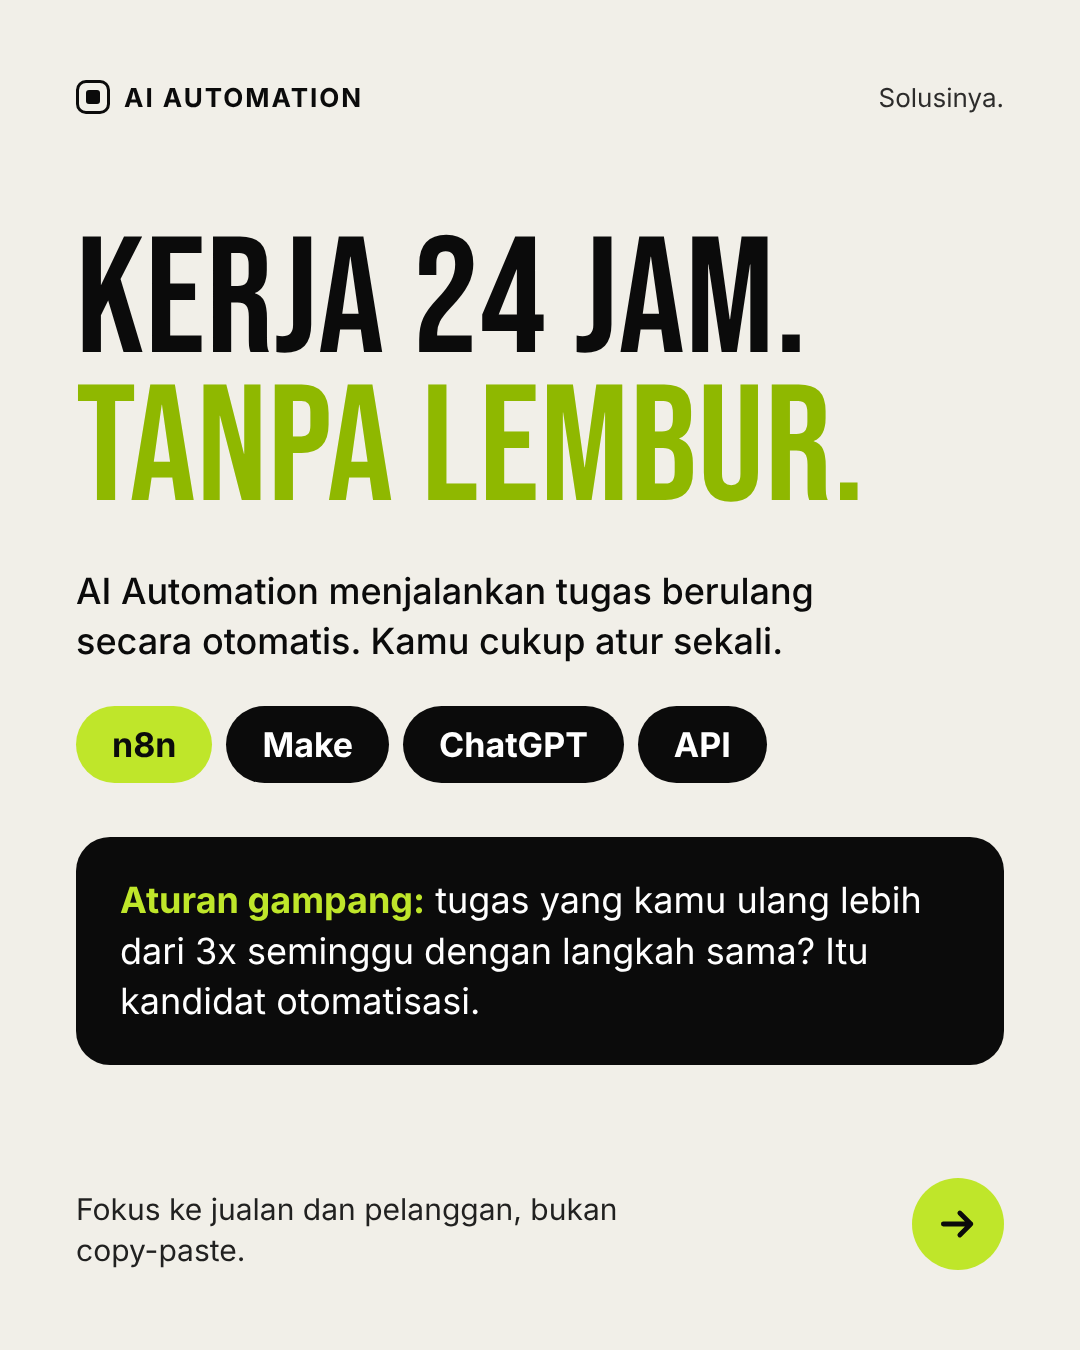
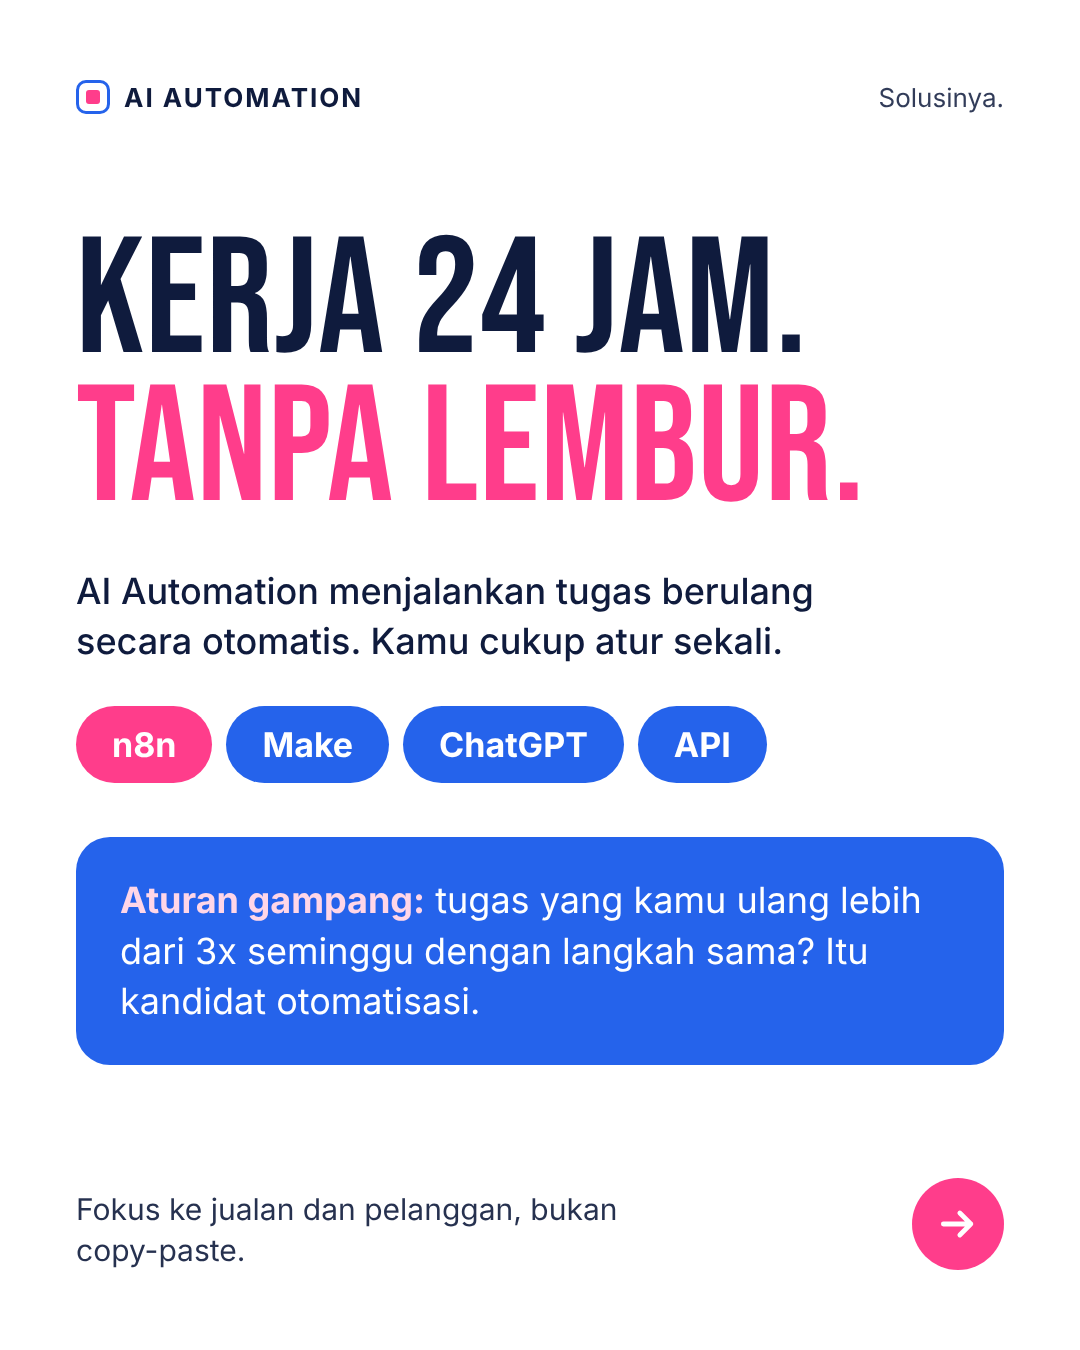
Ganti warna carousel jadi pink dan biru dengan latar putih
Claude-Session: https://claude.ai/code/session_01AFKDf2D6MYvccc19tTSVZF

diff --git a/carousel/carousel.html b/carousel/carousel.html
@@ -1,15 +1,15 @@
 <!doctype html><html lang="id"><head><meta charset="utf-8">
 <link href="https://fonts.googleapis.com/css2?family=Bebas+Neue&family=Inter:wght@400;500;700&display=swap" rel="stylesheet">
 <style>
-:root{--lime:#bfe62a;--limeD:#8fb800;--ink:#0b0b0b;--cream:#f1efe8}
+:root{--lime:#ff3d8b;--limeD:#ff3d8b;--ink:#0f1b3d;--blue:#2563eb;--soft:#eaf0ff}
 *{box-sizing:border-box;margin:0}
 body{background:#444;font-family:Inter,system-ui,sans-serif}
-.s{width:1080px;height:1350px;position:relative;overflow:hidden;padding:80px 76px;display:flex;flex-direction:column;background:var(--ink);color:#fff}
-.s.c{background:var(--cream);color:var(--ink)}
+.s{width:1080px;height:1350px;position:relative;overflow:hidden;padding:80px 76px;display:flex;flex-direction:column;background:#fff;color:var(--ink)}
+.s.c{background:#fff;color:var(--ink)}
 .logo{display:flex;align-items:center;gap:14px;font-weight:700;font-size:26px;letter-spacing:2px;z-index:3}
-.logo i{width:34px;height:34px;border-radius:10px;border:3px solid var(--lime);display:block;position:relative}
+.logo i{width:34px;height:34px;border-radius:10px;border:3px solid var(--blue);display:block;position:relative}
 .logo i:after{content:"";position:absolute;inset:7px;background:var(--lime);border-radius:3px}
-.c .logo i{border-color:var(--ink)}.c .logo i:after{background:var(--ink)}
+
 .top{display:flex;justify-content:space-between;align-items:flex-start;z-index:3}
 .top small{font-size:26px;text-align:right;line-height:1.35;opacity:.85}
 h1{font-family:"Bebas Neue",Impact,sans-serif;font-weight:400;text-transform:uppercase;font-size:210px;line-height:.9;letter-spacing:1px;z-index:3;position:relative}
@@ -22,33 +22,33 @@ h1 em{font-style:normal;color:var(--lime)}.c h1 em{color:var(--limeD)}
 .go svg{width:44px;height:44px}
 .pg{position:absolute;top:84px;right:76px;font-size:26px;opacity:.6;z-index:3}
 /* s1 */
-.clock{position:absolute;right:70px;top:190px;width:430px;height:430px;border-radius:50%;border:38px solid var(--lime);z-index:1}
-.clock:before,.clock:after{content:"";position:absolute;left:50%;top:50%;background:#fff;border-radius:10px;transform-origin:50% 100%}
+.clock{position:absolute;right:70px;top:190px;width:430px;height:430px;border-radius:50%;border:38px solid var(--blue);z-index:1}
+.clock:before,.clock:after{content:"";position:absolute;left:50%;top:50%;background:var(--lime);border-radius:10px;transform-origin:50% 100%}
 .clock:before{width:16px;height:150px;margin-left:-8px;margin-top:-150px;transform:rotate(25deg)}
 .clock:after{width:16px;height:110px;margin-left:-8px;margin-top:-110px;transform:rotate(-70deg)}
 .big60{font-family:"Bebas Neue";font-size:520px;line-height:.8;color:var(--lime)}
 /* s2 chats */
 .bub{position:absolute;font-size:38px;font-weight:700;padding:26px 38px;border-radius:34px;z-index:2;box-shadow:0 16px 40px rgba(0,0,0,.25)}
-.bd{background:var(--ink);color:#fff}.bl{background:var(--lime);color:var(--ink)}
+.bd{background:var(--blue);color:#fff}.bl{background:var(--lime);color:#fff}
 /* s3 */
-.row{display:flex;gap:28px;align-items:center;background:#1a1a1a;border-radius:30px;padding:30px 36px;margin-bottom:22px;font-size:36px;line-height:1.3;font-weight:500}
+.row{display:flex;gap:28px;align-items:center;background:var(--soft);border-radius:30px;padding:30px 36px;margin-bottom:22px;font-size:36px;line-height:1.3;font-weight:500}
 .row b{font-family:"Bebas Neue";font-size:96px;color:var(--lime);font-weight:400;line-height:1;min-width:60px}
 /* s4 */
-.chip{display:inline-block;background:var(--ink);color:#fff;border-radius:60px;padding:18px 36px;font-size:34px;font-weight:700;margin:0 14px 14px 0}
-.chip.l{background:var(--lime);color:var(--ink)}
-.rule{background:var(--ink);color:#fff;border-radius:34px;padding:38px 44px;font-size:36px;line-height:1.4}
-.rule b{color:var(--lime)}
+.chip{display:inline-block;background:var(--blue);color:#fff;border-radius:60px;padding:18px 36px;font-size:34px;font-weight:700;margin:0 14px 14px 0}
+.chip.l{background:var(--lime);color:#fff}
+.rule{background:var(--blue);color:#fff;border-radius:34px;padding:38px 44px;font-size:36px;line-height:1.4}
+.rule b{color:#ffd6e8}
 /* s5 */
-.node{display:flex;align-items:center;gap:26px;background:#1a1a1a;border-radius:26px;padding:22px 32px;font-size:34px;font-weight:500;position:relative}
-.node b{background:var(--lime);color:var(--ink);width:56px;height:56px;border-radius:50%;display:flex;align-items:center;justify-content:center;font-size:30px;flex:none}
+.node{display:flex;align-items:center;gap:26px;background:var(--soft);border-radius:26px;padding:22px 32px;font-size:34px;font-weight:500;position:relative}
+.node b{background:var(--lime);color:#fff;width:56px;height:56px;border-radius:50%;display:flex;align-items:center;justify-content:center;font-size:30px;flex:none}
 .link{width:4px;height:22px;background:var(--lime);margin-left:58px}
 /* s6 */
-.arc{position:absolute;right:-540px;top:430px;opacity:.45;width:900px;height:900px;border-radius:50%;border:10px solid var(--lime);box-shadow:0 0 70px 6px rgba(191,230,42,.55),inset 0 0 60px rgba(191,230,42,.3);z-index:1}
-.pill{display:inline-flex;align-items:center;gap:18px;background:var(--lime);color:var(--ink);font-weight:800;font-size:40px;padding:26px 44px;border-radius:70px}
+.arc{position:absolute;right:-540px;top:430px;opacity:.7;border-color:var(--blue);width:900px;height:900px;border-radius:50%;border:10px solid var(--lime);box-shadow:0 0 70px 6px rgba(255,61,139,.45),inset 0 0 60px rgba(255,61,139,.25);z-index:1}
+.pill{display:inline-flex;align-items:center;gap:18px;background:var(--lime);color:#fff;font-weight:800;font-size:40px;padding:26px 44px;border-radius:70px}
 .cta li{list-style:none;font-size:38px;font-weight:500;margin-bottom:22px;display:flex;gap:20px;align-items:center}
 .cta li b{color:var(--lime);font-family:"Bebas Neue";font-size:60px;font-weight:400}
 </style></head><body>
-<svg width="0" height="0"><defs><symbol id="ar" viewBox="0 0 24 24"><path d="M4 12h15m-6-6 6 6-6 6" fill="none" stroke="#0b0b0b" stroke-width="2.6" stroke-linecap="round" stroke-linejoin="round"/></symbol></defs></svg>
+<svg width="0" height="0"><defs><symbol id="ar" viewBox="0 0 24 24"><path d="M4 12h15m-6-6 6 6-6 6" fill="none" stroke="#fff" stroke-width="2.6" stroke-linecap="round" stroke-linejoin="round"/></symbol></defs></svg>
 
 <!-- 1 -->
 <div class="s" id="s1">
